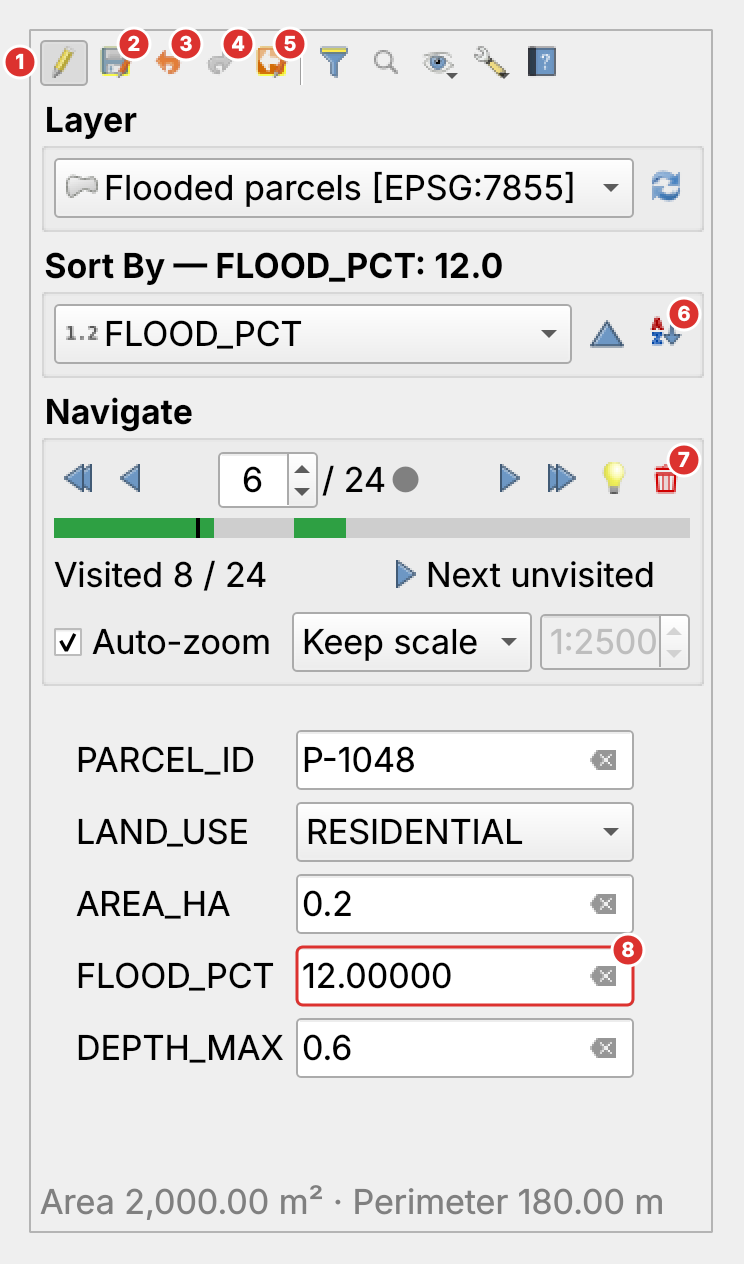
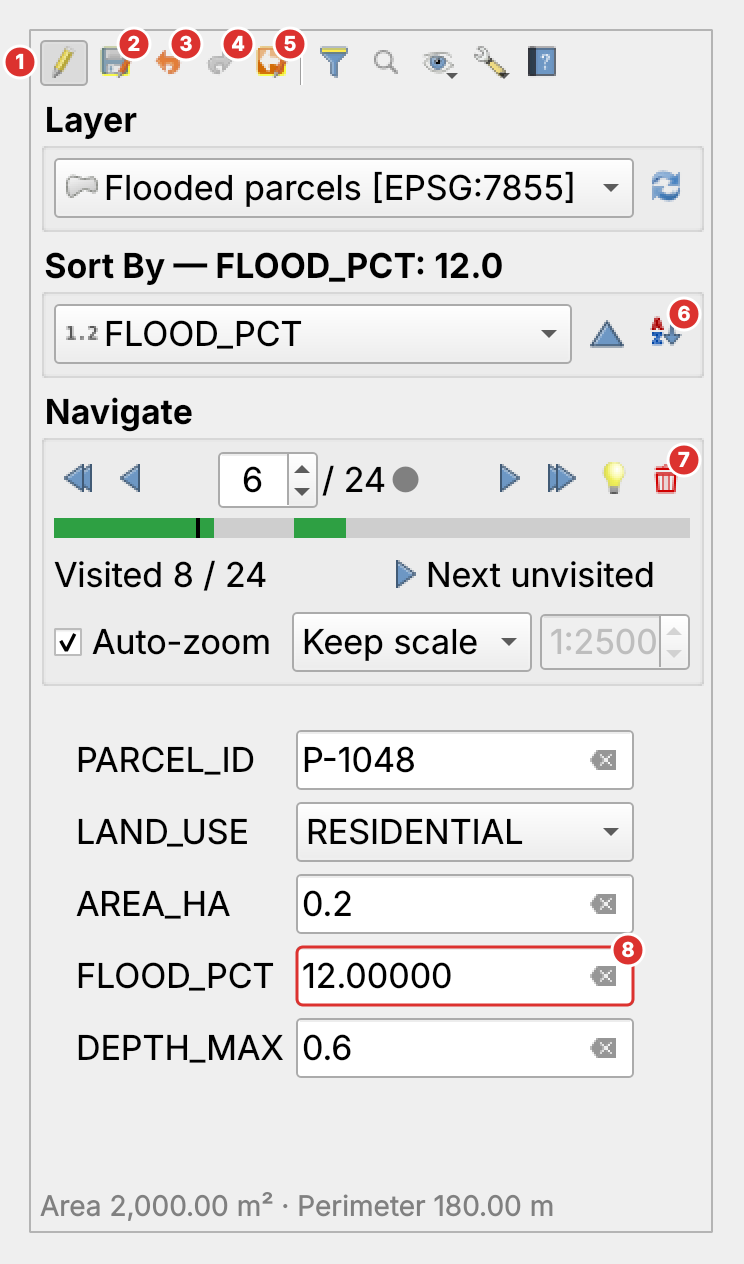
Multi-edit button reads "Apply"; measurements are opt-in and smaller
- The multi-edit button is just "Apply"; the number of selected
  features moved to its tooltip.
- Measurements are now off by default: tick Settings > Show
  measurements to see area and perimeter under the form, in a smaller
  font. Stored under a new settings key so earlier test installs also
  start with it off.
- Help text and pictures updated (the pictures still show the optional
  measurements line, labelled as optional).

Claude-Session: https://claude.ai/code/session_01Dz8Grihpq5hWQr6r5iNASo

Changed region(s): [[0.0618, 0.9256, 0.8965, 0.9873]]

diff --git a/navigator_widget.py b/navigator_widget.py
@@ -1844,7 +1844,7 @@ class FeatureNavEdDockWidget(NavigatorUiMixin, QDockWidget):
             s.setValue(f"{p}/enable_flash", bool(self.enable_flash_cb.isChecked()))
             s.setValue(f"{p}/lock_navigation", bool(self.lock_nav_cb.isChecked()))
             s.setValue(f"{p}/track_visited", bool(self.track_visited_cb.isChecked()))
-            s.setValue(f"{p}/show_measurements",
+            s.setValue(f"{p}/measurements",
                        bool(self.show_measurements_cb.isChecked()))
             s.setValue(f"{p}/scale", int(self.scale_spin.value()))
             s.setValue(f"{p}/sort_ascending", bool(self.sort_ascending))
@@ -1875,7 +1875,7 @@ class FeatureNavEdDockWidget(NavigatorUiMixin, QDockWidget):
                                        (self.enable_flash_cb, "enable_flash", False),
                                        (self.lock_nav_cb, "lock_navigation", False),
                                        (self.track_visited_cb, "track_visited", True),
-                                       (self.show_measurements_cb, "show_measurements", True)):
+                                       (self.show_measurements_cb, "measurements", False)):
             checkbox.blockSignals(True)
             checkbox.setChecked(_b(key, default))
             checkbox.blockSignals(False)

diff --git a/navigator_ui.py b/navigator_ui.py
@@ -238,6 +238,10 @@ class NavigatorUiMixin:
 
         self._measure_label = QLabel()
         self._measure_label.setWordWrap(True)
+        small = self._measure_label.font()
+        if small.pointSizeF() > 0:
+            small.setPointSizeF(max(6.0, small.pointSizeF() * 0.85))
+            self._measure_label.setFont(small)
         self._measure_label.setStyleSheet("color: gray;")
         self._measure_label.setTextInteractionFlags(
             qenum(Qt, 'TextInteractionFlag', 'TextSelectableByMouse'))
@@ -352,7 +356,8 @@ class NavigatorUiMixin:
         menu_layout.addWidget(self.track_visited_cb)
         self.show_measurements_cb = QCheckBox("Show measurements")
         self.show_measurements_cb.setToolTip(
-            "Area and perimeter (length for lines) under the form")
+            "Show the area and perimeter (length for lines) in small text\n"
+            "under the form. Off by default.")
         menu_layout.addWidget(self.show_measurements_cb)
         action = QWidgetAction(menu)
         action.setDefaultWidget(container)

diff --git a/tests/test_zoom_and_measurements.py b/tests/test_zoom_and_measurements.py
@@ -75,10 +75,20 @@ def test_old_auto_scale_setting_is_migrated(iface):
         widget.cleanup()
 
 
-def test_measurements_for_polygons(dock, parcels_gpkg):
+def test_measurements_are_off_until_ticked(dock, parcels_gpkg):
+    assert not dock.show_measurements_cb.isChecked()
     dock.layer_combo.setLayer(parcels_gpkg)
     dock._go_first()
     pump()
+    assert not dock._measure_label.isVisible()
+
+
+def test_measurements_for_polygons(dock, parcels_gpkg):
+    dock.show_measurements_cb.setChecked(True)
+    dock.layer_combo.setLayer(parcels_gpkg)
+    dock._go_first()
+    pump()
+    assert dock._measure_label.font().pointSizeF() < dock.font().pointSizeF()
     text = dock._measure_label.text()
     assert dock._measure_label.isVisible()
     area, perimeter = text.split(" \u00b7 ")

diff --git a/help_content.py b/help_content.py
@@ -92,8 +92,9 @@ PAGES = [
             ("_feature_form_container", None, "Feature form",
              "The attributes of the current feature. You can change them when "
              "the layer is in edit mode."),
-            ("_measure_label", None, "Measurements",
-             "Area and perimeter (length for lines), in the project's units."),
+            ("_measure_label", None, "Measurements (optional)",
+             "Tick Show measurements in Settings to see the area and perimeter "
+             "(length for lines) here in small text, in the project's units."),
         ],
         "notes": [
             "Click a feature on the map to jump to it. Clicking an empty spot "

diff --git a/multi_edit.py b/multi_edit.py
@@ -482,7 +482,9 @@ class MultiEditPanel(QWidget):
         else:
             tail = grey("Edit a field to include it. Nothing changes until you click Apply.")
         self._info.setText(f"{head}<br>{tail}")
-        self.apply_btn.setText(f"Apply to {n} features" if n else "Apply")
+        self.apply_btn.setToolTip(
+            f"Write the ticked fields to all {n} selected features.\n"
+            "Changes go into the edit buffer \u2014 use Save Edits to keep them.")
         self.apply_btn.setEnabled(pending > 0)
         self.reset_btn.setEnabled(pending > 0)
 

diff --git a/tests/test_multi_edit.py b/tests/test_multi_edit.py
@@ -37,7 +37,8 @@ def test_selection_change_never_applies(dock, make_layer):
     pump()
     assert values(layer, first_two, "land") == before
     assert row.checkbox.isChecked() and row.line_edit.text() == "IND"
-    assert dock._multi_panel.apply_btn.text() == "Apply to 3 features"
+    assert dock._multi_panel.apply_btn.text() == "Apply"
+    assert "all 3 selected features" in dock._multi_panel.apply_btn.toolTip()
 
 
 def test_apply_writes_once_and_undo_reverts(dock, make_layer):

diff --git a/scripts/make_help_images.py b/scripts/make_help_images.py
@@ -245,6 +245,7 @@ def main():
     dock.setAttribute(WA_DONT_SHOW, True)
     dock.resize(*PANEL_SIZE)
     dock.show()
+    dock.show_measurements_cb.setChecked(True)      # optional; shown in the pictures
     dock.layer_combo.setLayer(layer)
     dock.sort_field_combo.setCurrentIndex(dock.sort_field_combo.findData("FLOOD_PCT"))
     for index in (0, 1, 2, 3, 4, 9, 10, 4):

diff --git a/README.md b/README.md
@@ -74,7 +74,7 @@ A QGIS plugin for navigating and editing vector layer features one by one — li
   - **Keep scale** — centre on the feature without changing the zoom
   - **Fit feature** — zoom so the whole feature fits, with a margin
   - **Fixed scale** — centre at the scale you type (e.g. `1:500`)
-- **Measurements** under the form: area and perimeter (polygons), length (lines) or X/Y (points), using the project's ellipsoid and units — like the Identify tool's *Derived* section. Turn off with **Settings → Show measurements**
+- **Measurements (optional)** — tick **Settings → Show measurements** to see the area and perimeter (length for lines, X/Y for points) in small text under the form, using the project's ellipsoid and units. Off by default
 
 ---
 
